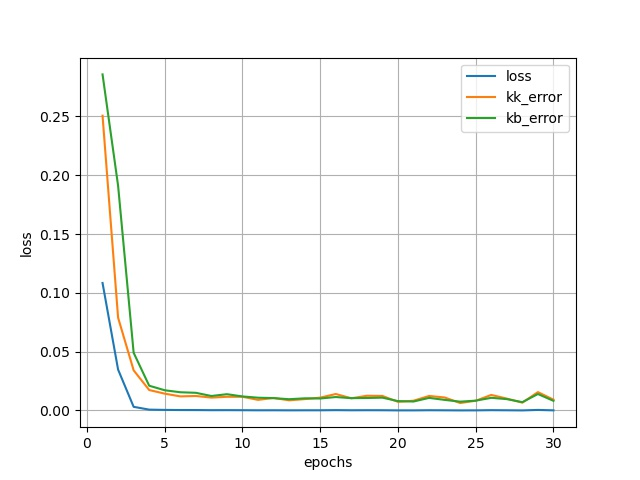
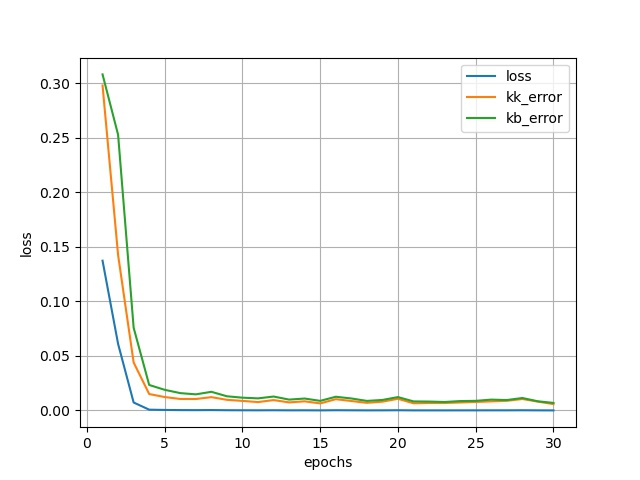
hi

diff --git a/2d_cnn.py b/2d_cnn.py
@@ -25,7 +25,7 @@ import torchvision.models as models
 from PIL import Image
 
 epoches = 50
-batches = 100
+batches = 200
 
 import torch
 import torchvision.transforms as transforms
@@ -100,12 +100,12 @@ class Net(nn.Module):
         self.conv1 = nn.Conv2d(1,32,3,padding=3)
         self.pool = nn.MaxPool2d(2,2)
         self.dout = nn.Dropout(0.2)
-        self.conv2 = nn.Conv2d(32,64,5,padding=5)
+        self.conv2 = nn.Conv2d(32,64,5)
         self.conv3 = nn.Conv2d(64,256,5)
-        self.conv4 = nn.Conv2d(256,512,5,padding=0)
-        self.conv5 = nn.Conv2d(512,1024,5,padding=0)
+        self.conv4 = nn.Conv2d(256,512,5)
+        # self.conv5 = nn.Conv2d(512,1024,5)
         
-        self.fc1 = nn.Linear(173056, 2048)
+        self.fc1 = nn.Linear(8192, 2048)
         self.fc2 = nn.Linear(2048, 512)
         self.fc3 = nn.Linear(512, 128)
         self.fc4 = nn.Linear(128, 2)
@@ -113,13 +113,13 @@ class Net(nn.Module):
     def forward(self,x):
         x = self.conv1(x)
         x = F.relu(x)
-        x = self.conv2(x)
+        x = self.pool(self.conv2(x))
         x = self.dout(x)
         x = F.relu(x)
-        x = F.relu(self.conv3(x))
+        x = self.pool(F.relu(self.conv3(x)))
         x = self.dout(x)
         x = self.pool(F.relu(self.conv4(x)))
-        x = self.pool(F.relu(self.conv5(x)))
+        # x = self.pool(F.relu(self.conv5(x)))
         x = x.view(x.size(0),-1)
         x = F.relu(self.fc1(x))
         x = F.relu(self.fc2(x))
@@ -178,7 +178,7 @@ for epoch in range(epoches):
     running_loss = 0.0
 
 print('Finished Training')
-save_name = 'data{}_epoches{}_batches_{}_pad3550'.format(len(train_set),epoches,batches)
+save_name = 'data{}_epoches{}_batches_{}_pad3000maxpool'.format(len(train_set),epoches,batches)
 torch.save(net, save_name+'_model.pt')
 
 import matplotlib.pyplot as plt
